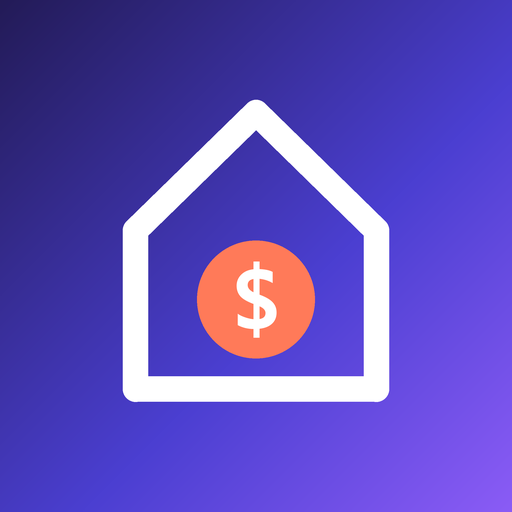
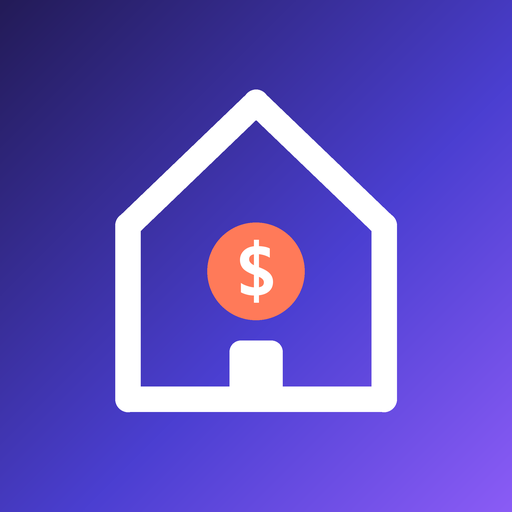
Icono con puerta y $ centrado (v3)

Changed region(s): [[0.2188, 0.1562, 0.7812, 0.8125]]

diff --git a/gastos-casa/index.html b/gastos-casa/index.html
@@ -6,8 +6,8 @@
 <title>Gastos de casa</title>
 <!-- Ícono y nombre al anclar la página a la pantalla de inicio del celular -->
 <link rel="manifest" id="mf" href="manifest.webmanifest">
-<link rel="icon" type="image/png" sizes="32x32" href="/gastos-casa/favicon-32.png?v=2">
-<link rel="apple-touch-icon" href="/gastos-casa/apple-touch-icon.png?v=2">
+<link rel="icon" type="image/png" sizes="32x32" href="/gastos-casa/favicon-32.png?v=3">
+<link rel="apple-touch-icon" href="/gastos-casa/apple-touch-icon.png?v=3">
 <meta name="apple-mobile-web-app-capable" content="yes">
 <meta name="mobile-web-app-capable" content="yes">
 <meta name="apple-mobile-web-app-title" content="Gastos">
@@ -17,7 +17,7 @@
 <meta property="og:title" content="Gastos de casa">
 <meta property="og:description" content="Cuánto se gasta en casa y en qué">
 <meta property="og:url" content="https://baredesbaires.github.io/gastos-casa/">
-<meta property="og:image" content="https://baredesbaires.github.io/gastos-casa/icono-512.png?v=2">
+<meta property="og:image" content="https://baredesbaires.github.io/gastos-casa/icono-512.png?v=3">
 <meta property="og:image:width" content="512">
 <meta property="og:image:height" content="512">
 <meta name="theme-color" content="#f5f3f8">
@@ -39,8 +39,8 @@ if (f) {
     name: "Gastos de casa", short_name: "Gastos", start_url: raiz + "?f=" + f, scope: raiz,
     display: "standalone", background_color: "#f5f3f8", theme_color: "#f5f3f8",
     icons: [
-      { src: raiz + "icono-192.png?v=2", sizes: "192x192", type: "image/png", purpose: "any maskable" },
-      { src: raiz + "icono-512.png?v=2", sizes: "512x512", type: "image/png", purpose: "any maskable" }
+      { src: raiz + "icono-192.png?v=3", sizes: "192x192", type: "image/png", purpose: "any maskable" },
+      { src: raiz + "icono-512.png?v=3", sizes: "512x512", type: "image/png", purpose: "any maskable" }
     ]
   };
   document.getElementById("mf").href = "data:application/manifest+json," + encodeURIComponent(JSON.stringify(m));
